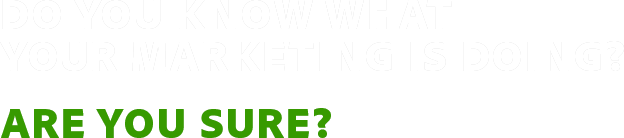
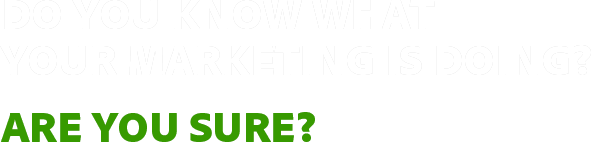
making granular adjustments requested by the client

Changed region(s): [[0.0, 0.7826, 0.5482, 1.0]]

diff --git a/woo-woo/2014-06-24/tablet/css/style.css b/woo-woo/2014-06-24/tablet/css/style.css
@@ -9,12 +9,12 @@ img { width: 100%; }
 #qzad .logo { position: absolute; top: 0; right: 23px; width: 48px; }
 #qzad .frame-start { display: none; position: absolute; top: 0; right: 0; bottom: 0; left: 0; background: url(../images/bg.jpg) no-repeat center center; background-size: 100%; }
 #qzad .frame-start.show { display: block; }
-#qzad .frame-start .copy { position: absolute; bottom: 99px; left: 30px; width: 435px; }
+#qzad .frame-start .copy { position: absolute; bottom: 99px; left: 30px; width: 422px; }
 #qzad .frame-start .cta { position: absolute; left: 30px; bottom: 30px; width: 151px; }
 #qzad .frame-end { display: none; position: absolute; top: 0; right: 0; bottom: 0; left: 0; background: url(../images/bg-final.jpg) no-repeat center center; background-size: 100%; }
 #qzad .frame-end.show { display: block; }
-#qzad .frame-end .copy-final { position: absolute; top: 278px; left: 30px; width: 311px; }
-#qzad .frame-end .cta-final { position: absolute; left: 30px; bottom: 77px; width: 151px; }
+#qzad .frame-end .copy-final { position: absolute; top: 278px; left: 30px; width: 310px; }
+#qzad .frame-end .cta-final { position: absolute; left: 30px; bottom: 76px; width: 151px; }
 #qzad .video-container { position: absolute; z-index: 101; top: 0; right: 0; bottom: 0; left: 0; background-color: black; display: none; }
 #qzad .video-container .video { position: absolute; top: 80px; right: 0; bottom: 80px; left: 0; }
 #qzad .video-container .x { color: white; position: absolute; top: 0; right: 0; font-size: 60px; width: 60px; height: 60px; text-align: center; line-height: 60px; }

diff --git a/woo-woo/2014-06-24/mobile/css/style.css b/woo-woo/2014-06-24/mobile/css/style.css
@@ -9,7 +9,7 @@ img { width: 100%; }
 #qzad .frame-start.show { display: block; }
 #qzad .frame-start .marketing { position: absolute; top: 10px; right: 9px; width: 149px; }
 #qzad .frame-start .logo { position: absolute; top: 0; left: 10px; width: 32px; }
-#qzad .frame-start .copy { position: absolute; bottom: 1px; left: 1px; width: 213px; }
+#qzad .frame-start .copy { position: absolute; bottom: 1px; left: 1px; width: 212px; }
 #qzad .frame-start .cta { position: absolute; right: 9px; bottom: 10px; width: 90px; }
 #qzad .frame-end { display: none; position: absolute; top: 0; right: 0; bottom: 0; left: 0; background: url(../images/bg-final.jpg) no-repeat center center; background-size: cover; }
 #qzad .frame-end.show { display: block; }

diff --git a/woo-woo/2014-06-24/desktop-a/css/style.css b/woo-woo/2014-06-24/desktop-a/css/style.css
@@ -13,7 +13,7 @@ a { display: block; }
 #qzad .frame-end.show { display: block; }
 #qzad .frame-end .marketing-final { position: absolute; top: 29px; left: 29px; }
 #qzad .frame-end .logo-final { position: absolute; top: 0; right: 29px; }
-#qzad .frame-end .copy-final { position: absolute; top: 237px; left: 29px; }
+#qzad .frame-end .copy-final { position: absolute; top: 233px; left: 29px; }
 #qzad .frame-end .cta-final { position: absolute; left: 29px; bottom: 29px; }
 #qzad .video-container { position: absolute; z-index: 101; top: 0; right: 0; bottom: 0; left: 0; background-color: black; display: none; }
 #qzad .video-container .video { width: 100%; height: 100%; }

diff --git a/woo-woo/2014-06-24/desktop-b/css/style.css b/woo-woo/2014-06-24/desktop-b/css/style.css
@@ -13,7 +13,7 @@ a { display: block; }
 #qzad .frame-end.show { display: block; }
 #qzad .frame-end .marketing-final { position: absolute; top: 29px; right: 29px; }
 #qzad .frame-end .logo-final { position: absolute; top: 0; left: 29px; }
-#qzad .frame-end .copy-final { position: absolute; top: 237px; left: 29px; }
+#qzad .frame-end .copy-final { position: absolute; top: 233px; left: 29px; }
 #qzad .frame-end .cta-final { position: absolute; left: 29px; bottom: 29px; }
 #qzad .video-container { position: absolute; z-index: 101; top: 0; right: 0; bottom: 0; left: 0; background-color: black; display: none; }
 #qzad .video-container .video { width: 100%; height: 100%; }

diff --git a/woo-woo/2014-06-24/tablet/scss/style.scss b/woo-woo/2014-06-24/tablet/scss/style.scss
@@ -44,7 +44,7 @@ img {
 			position: absolute;
 			bottom: 99px;
 			left: 30px;
-			width: 435px;
+			width: 422px;
 		}
 		.cta {
 			position: absolute;
@@ -70,12 +70,12 @@ img {
 			position: absolute;
 			top: 278px;
 			left: 30px;
-			width: 311px;
+			width: 310px;
 		}
 		.cta-final {
 			position: absolute;
 			left: 30px;
-			bottom: 77px;
+			bottom: 76px;
 			width: 151px;
 		}
 	}

diff --git a/woo-woo/2014-06-24/mobile/scss/style.scss b/woo-woo/2014-06-24/mobile/scss/style.scss
@@ -43,7 +43,7 @@ img {
 			position: absolute;
 			bottom: 1px;
 			left: 1px;
-			width: 213px;
+			width: 212px;
 		}
 		.cta {
 			position: absolute;

diff --git a/woo-woo/2014-06-24/desktop-a/scss/style.scss b/woo-woo/2014-06-24/desktop-a/scss/style.scss
@@ -72,7 +72,7 @@ a {
 		}
 		.copy-final {
 			position: absolute;
-			top: 237px;
+			top: 233px;
 			left: 29px;
 		}
 		.cta-final {

diff --git a/woo-woo/2014-06-24/desktop-b/scss/style.scss b/woo-woo/2014-06-24/desktop-b/scss/style.scss
@@ -72,7 +72,7 @@ a {
 		}
 		.copy-final {
 			position: absolute;
-			top: 237px;
+			top: 233px;
 			left: 29px;
 		}
 		.cta-final {
